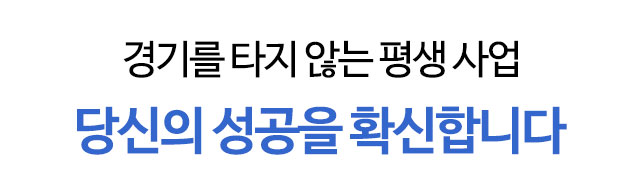
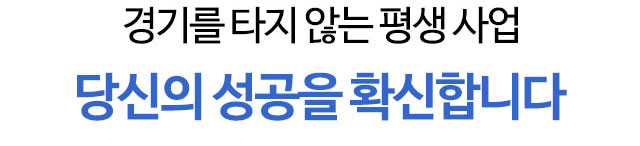
db폼이미지변경

diff --git a/1904/ddrcall/css/m-style.css b/1904/ddrcall/css/m-style.css
@@ -86,7 +86,7 @@ h1 {
 h2 {
 
 	font-size:15px;
-	line-height:10px;
+	line-height:11px;
 	padding:0;
 }
 
